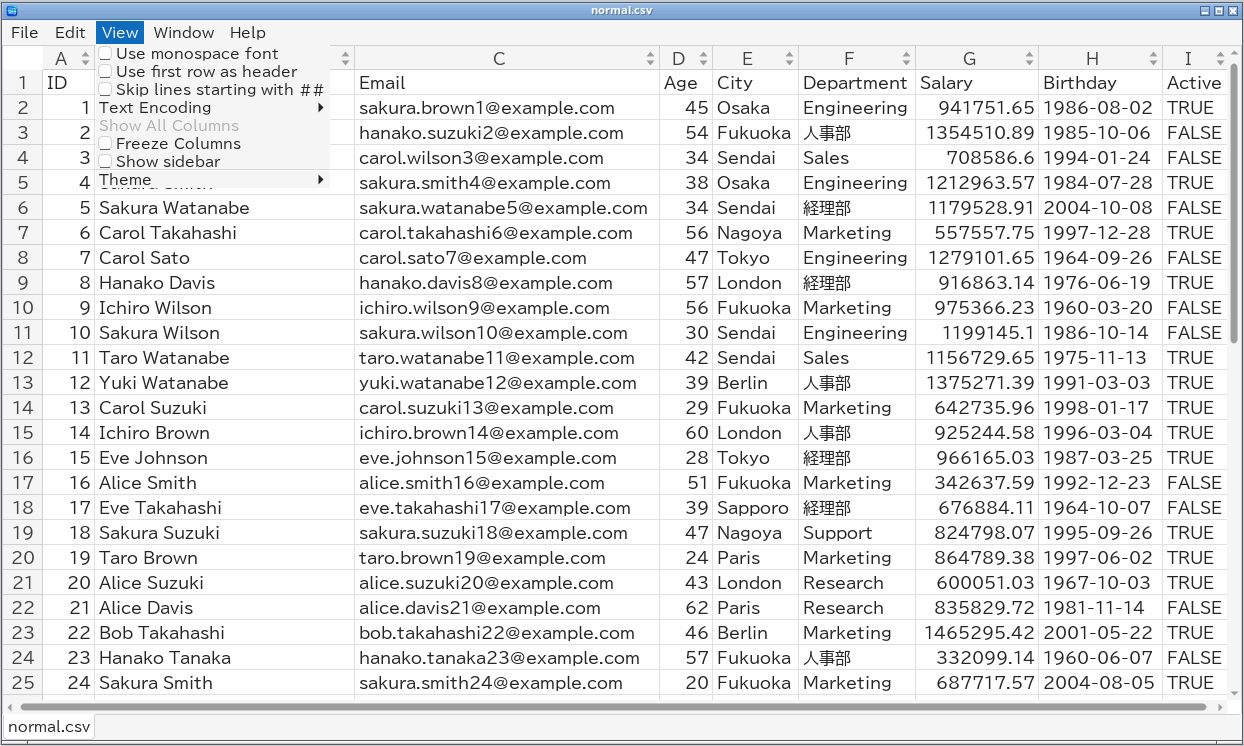
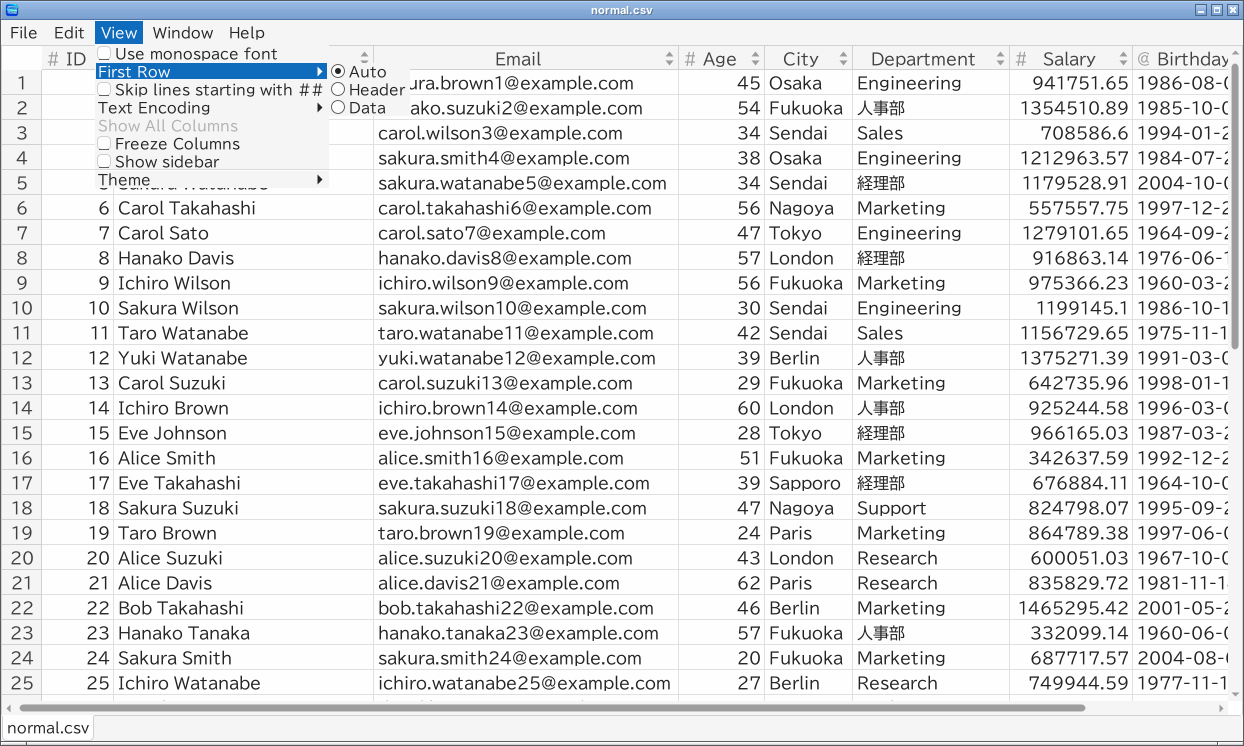
Retake the screenshots changed by the first-row guess
- gui-menu-view.png shows View > First Row with its Auto, Header and
  Data choices instead of the old toggle.
- gui-multisheet.png shows the workbook with its first row taken as
  the header, as it now opens, instead of as data under A, B, C.
- The charts guide no longer says the demo file is shown "with the
  first row as header" as if that were chosen: it is the guess now.

Claude-Session: https://claude.ai/code/session_01Km6ujE9LUaw73Asvkrzme6

Changed region(s): [[0.0, 0.0, 1.0, 1.0]]

diff --git a/docs/ja/charts.md b/docs/ja/charts.md
@@ -2,7 +2,7 @@
 
 [← 目次](README.md)
 
-TableSkim では、表計算ソフトやスクリプトを使わずに、見ている行をグラフにしたり、表に集計したりできます。このページでは、どの問いにどの機能を使うか、結果の読み方、グラフから元の行へのたどり方を、例を交えて説明します。例では、デモファイルの `normal.csv`（54 人分。先頭行を列名として使用）と `large.parquet`（1 万行）を使います。
+TableSkim では、表計算ソフトやスクリプトを使わずに、見ている行をグラフにしたり、表に集計したりできます。このページでは、どの問いにどの機能を使うか、結果の読み方、グラフから元の行へのたどり方を、例を交えて説明します。例では、デモファイルの `normal.csv`（54 人分。先頭行は列名として判定されます）と `large.parquet`（1 万行）を使います。
 
 - [問いに応じた機能の選び方](#問いに応じた機能の選び方)
 - [1 つの列の分布：ヒストグラム](#1-つの列の分布ヒストグラム)

diff --git a/docs/en/charts.md b/docs/en/charts.md
@@ -6,7 +6,7 @@ TableSkim draws charts of the rows you are looking at and summarizes them
 in tables, without a spreadsheet or a script. This page shows, with
 examples, which tool answers which question, how to read the result, and
 how to go from a chart to the rows behind it. The examples use the demo
-files `normal.csv` (54 people, with the first row as header) and
+files `normal.csv` (54 people; its first row is taken as the header) and
 `large.parquet` (10,000 rows).
 
 - [Which tool for which question](#which-tool-for-which-question)
